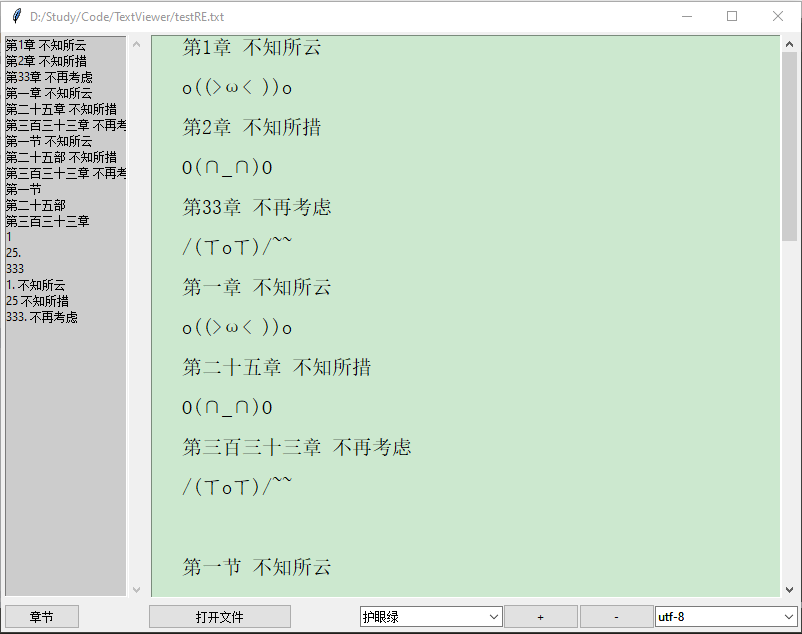
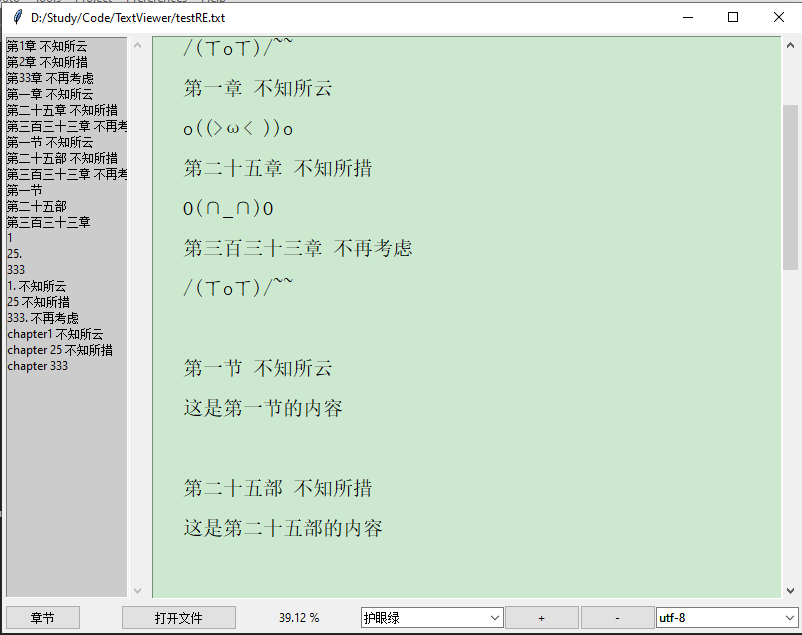
加入百分比功能

diff --git a/TextViewer/tv.py b/TextViewer/tv.py
@@ -56,24 +56,27 @@ class TV(object):
         status_frame.columnconfigure(0, weight=1)
         status_frame.columnconfigure(1, weight=1)
         status_frame.columnconfigure(2, weight=1)
+        status_frame.columnconfigure(3, weight=1)
         # 设置栏按钮
         self.chapter_button = ttk.Button(status_frame, text="章节", command=self.show_chapter, state="disabled", takefocus=0)
         self.chapter_button.grid(column=0, row=0, sticky=W)
         self.openfile_button = ttk.Button(status_frame, text="打开文件", command=self.open_file, takefocus=0)
         self.openfile_button.grid(column=1, row=0, sticky=(E,W))
+        self.percent_label = ttk.Label(status_frame, text="0 %")
+        self.percent_label.grid(column=2, row=0, sticky=E)
         self.color_box = ttk.Combobox(status_frame, values=list(TV.COLORS.keys()), state="readonly", takefocus=0)
         self.color_box.set(self.cur_color)
         self.color_box.bind('<<ComboboxSelected>>', self.change_color)
-        self.color_box.grid(column=2, row=0, sticky=E)
+        self.color_box.grid(column=3, row=0, sticky=E)
         self.bigger_button = ttk.Button(status_frame, text="+", command=self.bigger_font, state="disabled", takefocus=0)
-        self.bigger_button.grid(column=3, row=0, sticky=E)
+        self.bigger_button.grid(column=4, row=0, sticky=E)
         self.smaller_button = ttk.Button(status_frame, text="-", command=self.smaller_font, state="disabled", takefocus=0)
-        self.smaller_button.grid(column=4, row=0, sticky=E)
+        self.smaller_button.grid(column=5, row=0, sticky=E)
         self.codec_box = ttk.Combobox(status_frame, values=TV.CODEC, state="readonly", takefocus=0)
         self.codec_box.current(self.cur_codec)
         self.codec_box.bind('<<ComboboxSelected>>', self.change_codec)
-        self.codec_box.grid(column=5, row=0, sticky=E)
-
+        self.codec_box.grid(column=6, row=0, sticky=E)
+        
     def key_bind(self):
         """
         快捷键：
@@ -106,7 +109,8 @@ class TV(object):
         # 滚动条
         self.content_scroll = ttk.Scrollbar(self.content_frame, orient=VERTICAL, command=self.content_text.yview)
         self.content_scroll.grid(column=1, row=0, sticky=(N, S))
-        self.content_text.configure(yscrollcommand=self.content_scroll.set)
+        #self.content_text.configure(yscrollcommand=self.content_scroll.set)
+        self.content_text.configure(yscrollcommand=self.change_view)
 
         # 章节信息
         v = StringVar()
@@ -128,11 +132,16 @@ class TV(object):
         self.chapter_button.configure(state="normal")
         self.color_box.configure(state="readonly")
         self.bigger_button.configure(state="normal")
-        self.smaller_button.configure(state="normal")
+        self.smaller_button.configure(state="normal")     
 
         self.key_bind()
 
 # 下面都是回调函数
+    def change_view(self, *num):
+        self.content_scroll.set(num[0], num[1])
+        percent = "{:.2f}".format(float(num[1])*100) + " %"
+        self.percent_label.configure(text=percent)
+
     def open_file(self, *args):
         """
         “打开文件”按钮的回调函数

diff --git a/TextViewer/textfile.py b/TextViewer/textfile.py
@@ -2,7 +2,7 @@ import re
 
 class TextFile(object):
     # 自动识别章节信息的正则表达式
-    PATTERN = re.compile(r'^[0-9]+\.?\s\S*|^第?[0-9一二三四五六七八九十百千]+[章节部]\s\S*|^chapter\s*[0-9]+\s\S*', re.MULTILINE)
+    PATTERN = re.compile(r'^\s*[0-9]+\.?\s\S*|^\s*第?[0-9一二三四五六七八九十百千]+[章节部]\s\S*|^\s*chapter\s*[0-9]+\s\S*', re.MULTILINE)
 
     def __init__(self, file, codec):
         self.file_name = file

diff --git a/textviewer.py b/textviewer.py
@@ -1,0 +1,3 @@
+from TextViewer import tv
+
+viewer = tv.TV()

diff --git a/README.md b/README.md
@@ -1,6 +1,6 @@
 # TextViewer：一个简单的小说阅读软件
 
-支持txt文件，可以自动识别章节名称，更改阅读背景，编码格式，以及改变字体大小。
+支持txt文件，可以自动识别章节名称，显示阅读百分比，更改阅读背景，编码格式，以及改变字体大小。
 
 ## 软件截图
 
@@ -13,7 +13,7 @@
 使用的正则表达式为
 
 ```python
-PATTERN = re.compile(r'^[0-9]+\.?\s\S*|^第?[0-9一二三四五六七八九十百千]+[章节部]\s\S*|^chapter\s*[0-9]+\s\S*', re.MULTILINE)
+PATTERN = re.compile(r'^\s*[0-9]+\.?\s\S*|^\s*第?[0-9一二三四五六七八九十百千]+[章节部]\s\S*|^\s*chapter\s*[0-9]+\s\S*', re.MULTILINE)
 ```
 
 ## 可设置的背景颜色
